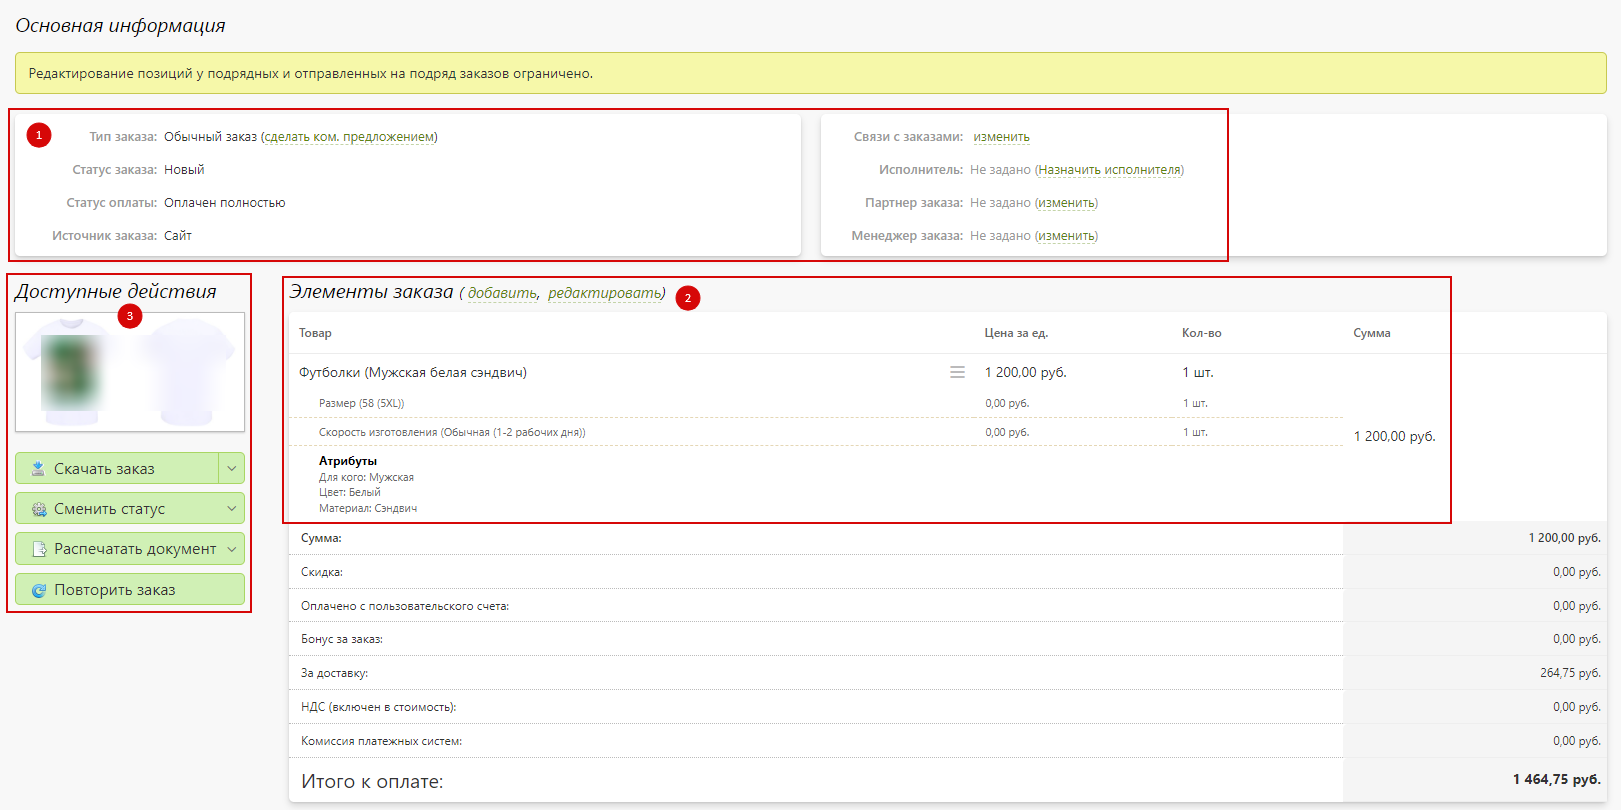
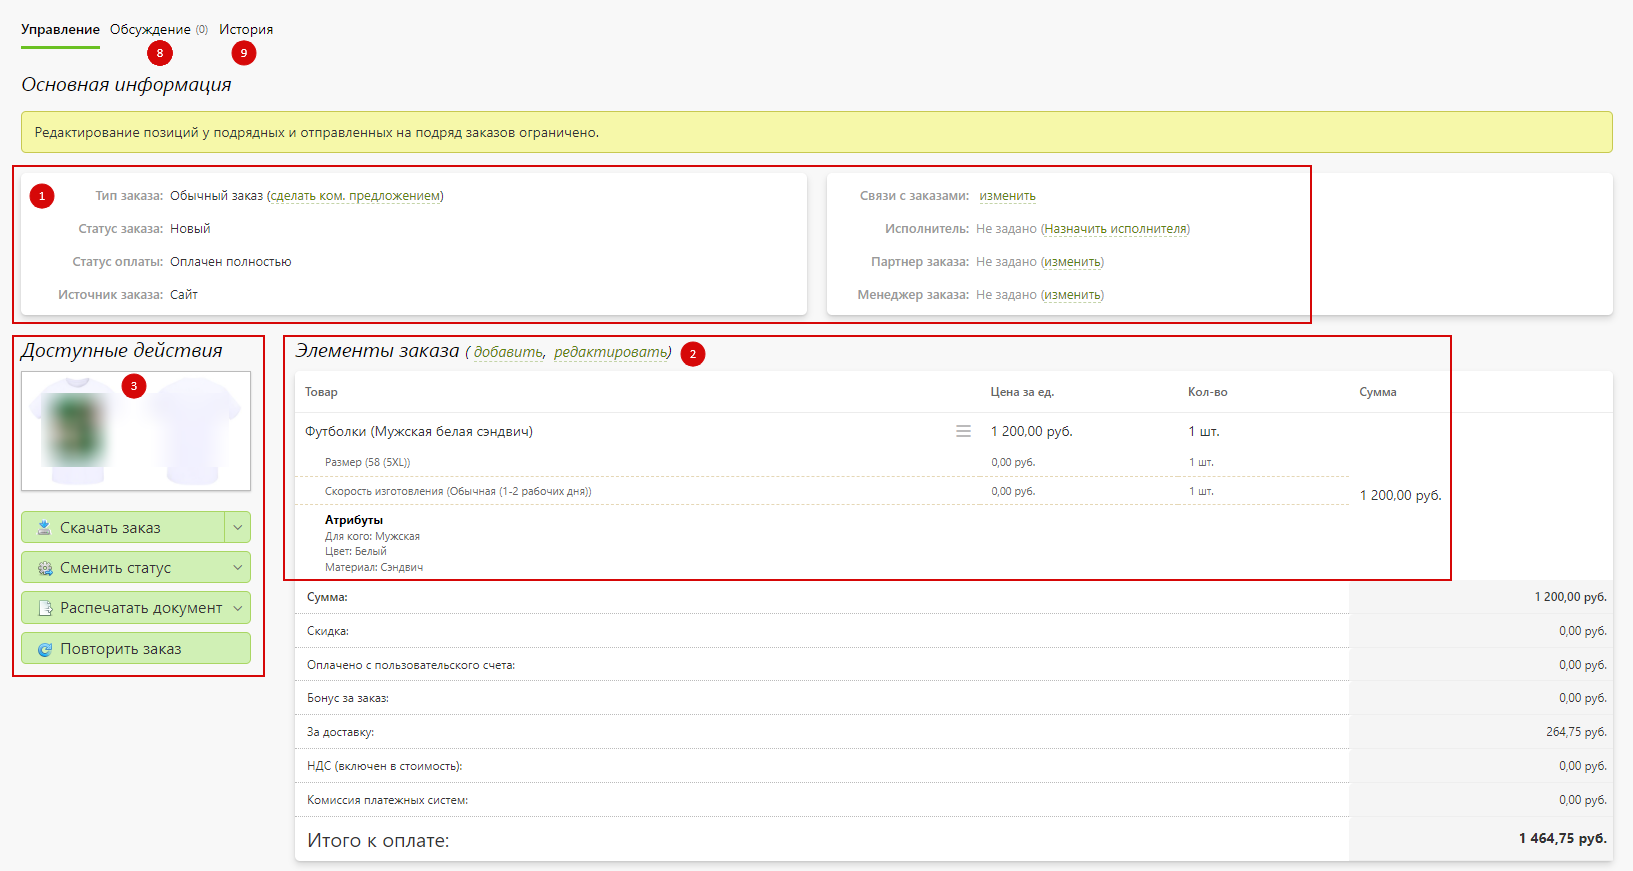
правка скриншотов

diff --git a/docs/orders/edit.md b/docs/orders/edit.md
@@ -3,15 +3,7 @@
 ![](../_media/order/order01.png ':size=70%')
 ![](../_media/order/order02.png ':size=70%')
 
-## 1. Навигация
-* **Статус заказа** в данные момент.
-* **Номер заказа**, рядом с номером кнопка "Копировать", сохраняет номер заказа в буфер обмена.
-* **Вкладки управления**:
-    + Управление - основная вкладка заказа.
-    + Обсуждение - комментарии и переписка по заказу с клиентом, в скобках указывается количество непрочитанных сообщений.
-    + История - история изменений статуса заказа, отправки уведомлений, комментариев и история правил, которые сработали на заказ.
-
-## 2. Основная информация
+## 1. Основная информация
 * **Типа заказа**
     + Обычный заказ - полноценный заказ продукции с регистрацией пользователя, который требует последующего исполнения, оплаты и доставки.
     + Коммерческое предложение - намерение пользователя в последующем оформить обычный заказ с указанными характеристиками.
@@ -38,7 +30,7 @@
     + Ссылка на профиль сотрудника, назначенного менеджером заказа.
 * Если какой-то пункт не отображается, значит у данного заказа его нет.
 
-## 3. Элементы заказа
+## 2. Элементы заказа
 * **Список позиций**
     + Позиции заказа - список товаров, содержащихся в заказа (наименование, цена за единицу, количество и сумма).
     + Стоимостные характеристики - стоимость всех позиций, скидки, бонусы, доставки, налоги, комиссии и итоговая сумма к оплате.
@@ -55,7 +47,7 @@
     + Добавить опцию - добавить к товару доступную опцию.
     + Удалить опцию - удалить опцию у товара.
 
-## 4. Доступные действия
+## 3. Доступные действия
 * **Смотреть обложку**
     + Просмотр обложки заказа, которая представляет собой сборную иллюстрацию, содержащую все дизайны (или развороты) позиций заказа.
 * **Скачать заказ**
@@ -67,7 +59,7 @@
 * **Отправить в Битрикс24**
     + Передача данных по заказу в CRM-систему Битрикс24.
 
-## 5. Примененные скидки
+## 4. Примененные скидки
 ![](../_media/order/order03.png ':size=25%')
 Данный раздел отображается, только если были применённые скидки.
 * **Название скидки**
@@ -75,7 +67,7 @@
 * **Значение скидки**
     + Сумма, на которую уменьшилась стоимость заказа.
 
-## 6. Параметры заказа
+## 5. Параметры заказа
 * **Дополнительный номер**
     + По умолчанию дополнительным номер заказа совпадает с основным. Но, его можно переопределить на абсолютно любой. Иногда в дополнительном номере заказа хранят номер из финансовой или ERP-системы для сопоставления заказов (например, в случае интеграции через API).
 * **Дата оформления**
@@ -85,7 +77,7 @@
 * **Клиент**
     + Ссылка на профиль клиента, который считается владельцем заказа. Владельца заказа можно изменить, выбрав либо произвольное частное лицо, либо зарегистрировав новое. В частности функция изменения нужна при смене типа заказа с "коммерческого предложения" на "обычный заказ".
 
-## 7. Доставка заказа
+## 6. Доставка заказа
 * **Получатель заказа**
     + ФИО и телефон человека, указанного в качестве получателя заказа на странице доставки. По умолчанию получатель заказа совпадает с оформителем.
 * **Способ доставки**
@@ -113,7 +105,7 @@
 * **Адрес доставки**
     + Выбор собственного/партнерского офиса, точки выдачи транспортной компании или задание адреса доставку курьером.
 
-## 8. Оплата заказа
+## 7. Оплата заказа
 * **Статус оплаты**
     + Не оплачен - требуется полная оплата.
     + Частично оплачен - произведена частичная оплата.
@@ -150,7 +142,7 @@
 * **Счета на оплату**
     + Список всех счетов (оплаченных и неоплаченных) по заказу. Любой счет можно удалить, добавить комментарий или скачать.
 
-## 9. Обсуждение
+## 8. Обсуждение
 ![](../_media/order/order08.png ':size=70%')
 * **Доступные действия**
     + Смотреть макет - утвержденный клиентом макет заказа (по умолчанию совпадает с обложкой).
@@ -164,7 +156,7 @@
     + Список прикрепленных к заказу файлов, которые в том числе доступны клиенту для скачивания.
     + Сотрудник компании может отметить загружаемый файл как утвержденный клиентом макет заказа.
 
-## 10. История
+## 9. История
 ![](../_media/order/order09.png ':size=70%')
 * **Фильтр**
     + Фильтрация зафиксированных событий по типу:
